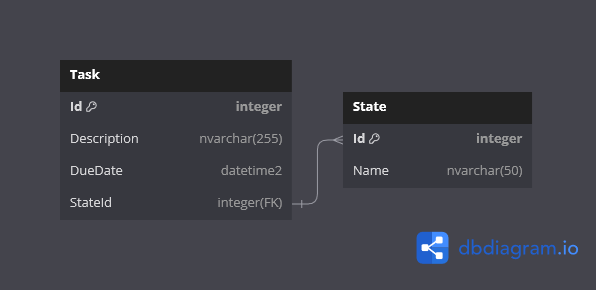
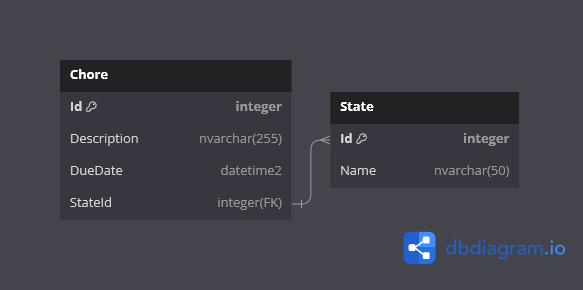
Changed DB table 'Task' to 'Chore' since the first one was causing ambiguity issues since Task is a reserved word by .NET system. Also, re-run DbScaffold script.

diff --git a/ToDoAPI/API/Data/ToDoDB.cs b/ToDoAPI/API/Data/ToDoDB.cs
@@ -16,15 +16,27 @@ public partial class ToDoDB : DbContext
     {
     }
 
-    public virtual DbSet<State> State { get; set; }
+    public virtual DbSet<Chore> Chore { get; set; }
 
-    public virtual DbSet<Task> Task { get; set; }
+    public virtual DbSet<State> State { get; set; }
 
     protected override void OnConfiguring(DbContextOptionsBuilder optionsBuilder)
         => optionsBuilder.UseSqlServer("Name=ToDoDB");
 
     protected override void OnModelCreating(ModelBuilder modelBuilder)
     {
+        modelBuilder.Entity<Chore>(entity =>
+        {
+            entity.HasKey(e => e.Id).HasName("PKChore");
+
+            entity.Property(e => e.Description).HasMaxLength(255);
+
+            entity.HasOne(d => d.State).WithMany(p => p.Chore)
+                .HasForeignKey(d => d.StateId)
+                .OnDelete(DeleteBehavior.ClientSetNull)
+                .HasConstraintName("FKStateChoreStateId");
+        });
+
         modelBuilder.Entity<State>(entity =>
         {
             entity.HasKey(e => e.Id).HasName("PKState");
@@ -33,18 +45,6 @@ public partial class ToDoDB : DbContext
             entity.Property(e => e.Name)
                 .HasMaxLength(50)
                 .IsUnicode(false);
-        });
-
-        modelBuilder.Entity<Task>(entity =>
-        {
-            entity.HasKey(e => e.Id).HasName("PKTask");
-
-            entity.Property(e => e.Description).HasMaxLength(255);
-
-            entity.HasOne(d => d.State).WithMany(p => p.Task)
-                .HasForeignKey(d => d.StateId)
-                .OnDelete(DeleteBehavior.ClientSetNull)
-                .HasConstraintName("FKStateTaskStateId");
         });
 
         OnModelCreatingPartial(modelBuilder);

diff --git a/ToDoAPI/API/Data/Models/State.cs b/ToDoAPI/API/Data/Models/State.cs
@@ -9,5 +9,5 @@ public partial class State
 
     public string Name { get; set; } = null!;
 
-    public virtual ICollection<Task> Task { get; set; } = new List<Task>();
+    public virtual ICollection<Chore> Chore { get; set; } = new List<Chore>();
 }

diff --git a/ToDoAPI/API/Data/Models/Chore.cs b/ToDoAPI/API/Data/Models/Chore.cs
@@ -3,7 +3,7 @@ using System.Collections.Generic;
 
 namespace API.Data.Models;
 
-public partial class Task
+public partial class Chore
 {
     public int Id { get; set; }
 
